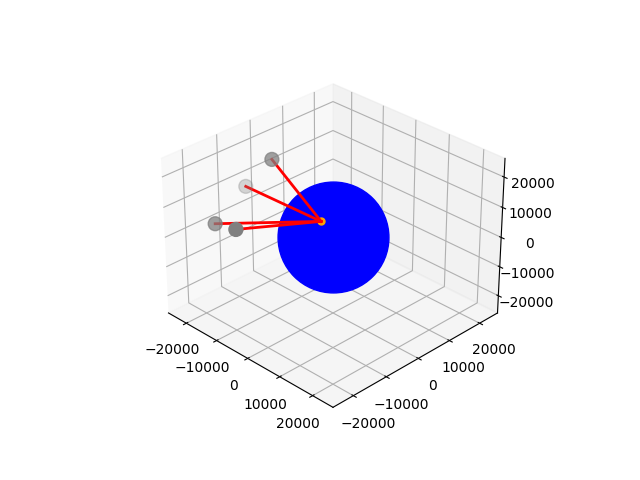
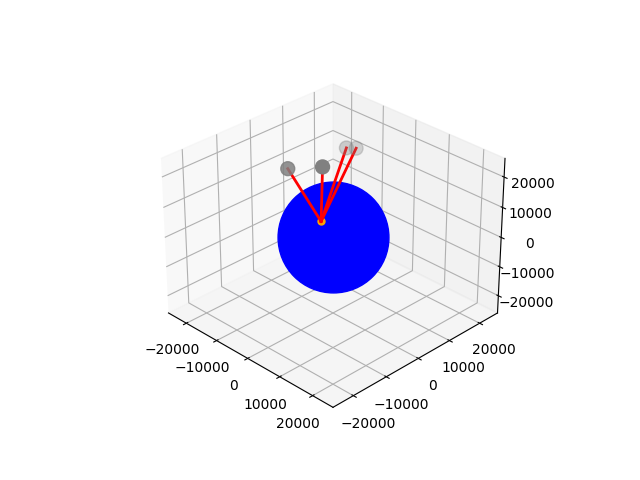
stuff

Changed region(s): [[0.3125, 0.2812, 0.5625, 0.5], [0.375, 0.375, 0.4062, 0.4062]]

diff --git a/d4.py b/d4.py
@@ -11,16 +11,17 @@ if __name__ == '__main__':
     receivers =  [(0,0), (-2,1), (2,1), (1.5, 0), (12,20)]
     
 
-    df_lin = run_tests(receivers, phi_diff=math.pi/4, theta_diff=math.pi/4, iters=20, n_sat=4, random=False)
+    # df_lin = run_tests(receivers, phi_diff=math.pi/4, theta_diff=math.pi/4, iters=20, n_sat=4, random=False)
 
-    print(df_lin)
+    # print(df_lin)
 
 
-    print(tabulate(df_lin, tablefmt="latex", floatfmt=".2f"))
+    # print(tabulate(df_lin, tablefmt="latex", floatfmt=".2f"))
 
-    test = TestGps((2,1))
+    test = TestGps((2,1), math.pi/4, math.pi/4)
     guess = test.get_initial_guess()
     ds = DynamicSystem(test.get_random_satelites(math.pi/4, math.pi/4, n=4))
+    print(ds.satelites[0].t)
     pos = ds.solve_GN(guess)
     print(pos)
     print(test.get_receiver_pos())

diff --git a/d5.py b/d5.py
@@ -18,7 +18,7 @@ if __name__ == '__main__':
     print(tabulate(df_lin, tablefmt="latex", floatfmt=".2f"))
 
 
-    test = TestGps((2,1), math.pi/80, math.pi/20)
+    test = TestGps((2,1), math.pi/40, math.pi/40)
     guess = test.get_initial_guess()
     ds = DynamicSystem(test.get_random_satelites(math.pi/80, math.pi/20, n=4))
     pos = ds.solve_GN(guess)
